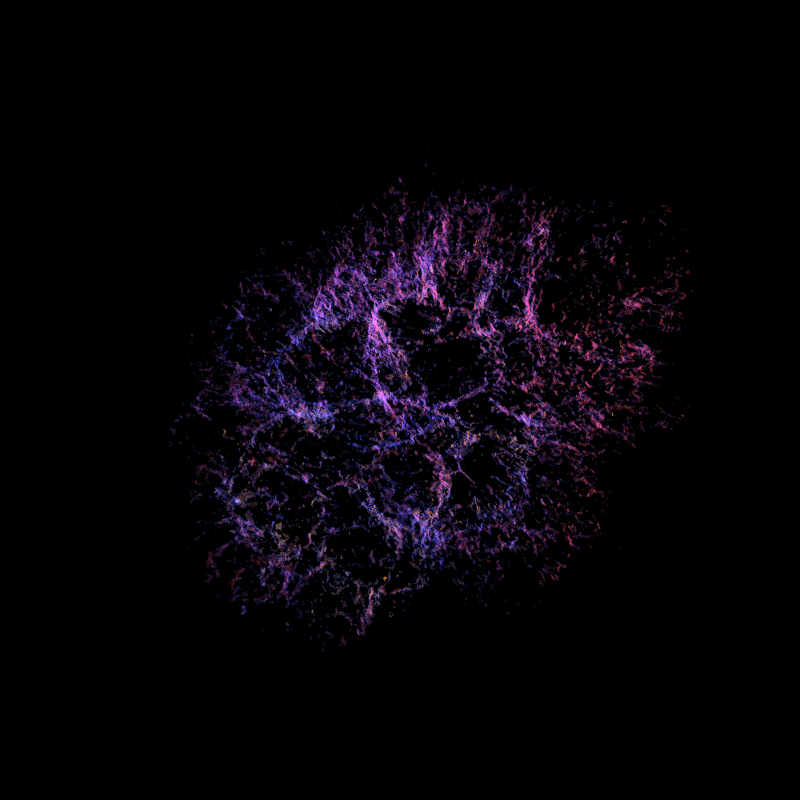
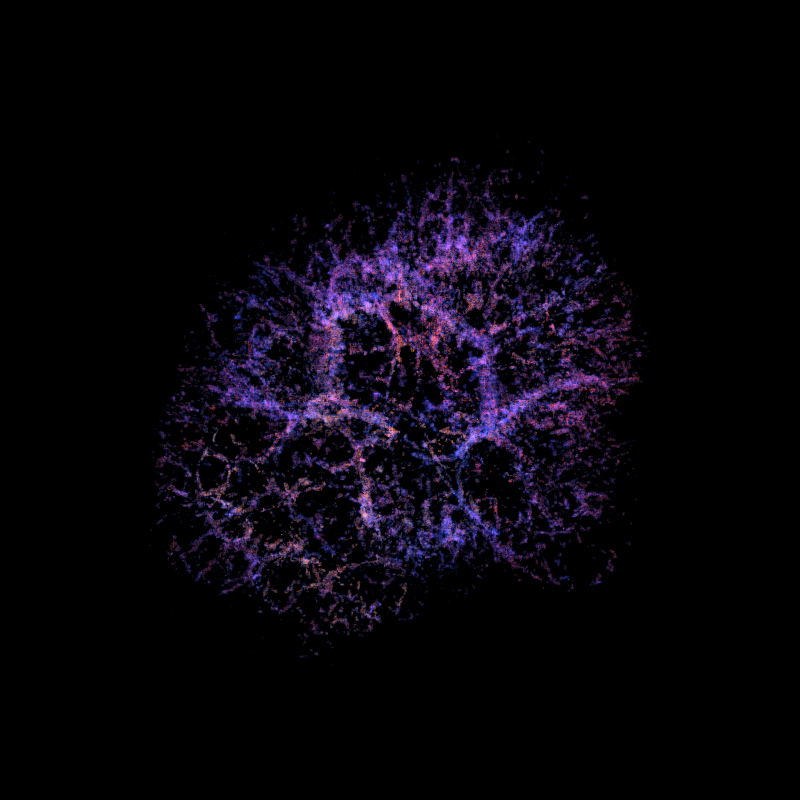
results update

Changed region(s): [[0.1875, 0.1875, 0.875, 0.8125], [0.75, 0.6875, 0.7812, 0.7188]]

diff --git a/step2_main_nvdb.cpp b/step2_main_nvdb.cpp
@@ -5,7 +5,7 @@
 /*      g++-15 -fopenmp -std=c++17 \
         -I/opt/homebrew/Cellar/openvdb/13.0.0_1/include \
          step2_main_nvdb.cpp -o step2_main_nvdb        
- g++-15 -fopenmp -std=c++17 \
+ g++-15 -fopenmp -std=c++17 -O3 -march=native \
 -isysroot $(xcrun --show-sdk-path) \
 -I/opt/homebrew/Cellar/openvdb/13.0.0_1/include \
 step2_main_nvdb.cpp -o step2_main_nvdb        
@@ -114,8 +114,8 @@ static void integrate(const Ray& ray,
         // Synchrotron (PWN) — sampled even in low-density voxels
         float syn = synSampler(idxPos);
         syn = pow(syn, 1.5f);
-        if (syn > 0.02f)
-            L += synchColor * syn * emissivity * 0.04f * T * worldStride;
+        // if (syn > 0.02f)
+        //     L += synchColor * syn * emissivity * 0.08f * T * worldStride;
     }
 }
 

diff --git a/README.md b/README.md
@@ -31,7 +31,7 @@ The first stage renders only the thermal filament structure reconstructed from t
 ### Nebula with synchrotron emission
 The synchrotron component of the pulsar wind nebula is rendered separately and integrated as an independent emission channel.
 <p align="center">
-  <img src="results/no_star.png" width="350">
+  <img src="results/no_star_yes_syn.png" width="350">
 </p>
 
 ---
@@ -39,7 +39,7 @@ The synchrotron component of the pulsar wind nebula is rendered separately and i
 ### Nebula with stars
 Background stars from the Gaia DR3 catalogue are projected into world space and composited after volume integration.
 <p align="center">
-  <img src="results/nebula_complete.png" width="350">
+  <img src="results/yes_star_yes_syn.png" width="350">
 </p>
 
 ---
@@ -48,20 +48,17 @@ Background stars from the Gaia DR3 catalogue are projected into world space and 
 
 ### Rotation without synchrotron
 <p align="center">
-  <img src="results/nebula.gif" width="350">
+  <img src="results/anim_noSyn.gif" width="350">
 </p>
 
 ---
 
 ### Rotation with synchrotron
 <p align="center">
-  <img src="results/nebula_syn.gif" width="350">
+  <img src="results/anim_syn.gif" width="350">
 </p>
 
 ---
-
-## How to run the code
-
 ### Requirements
 
 **Python** (Step 1):